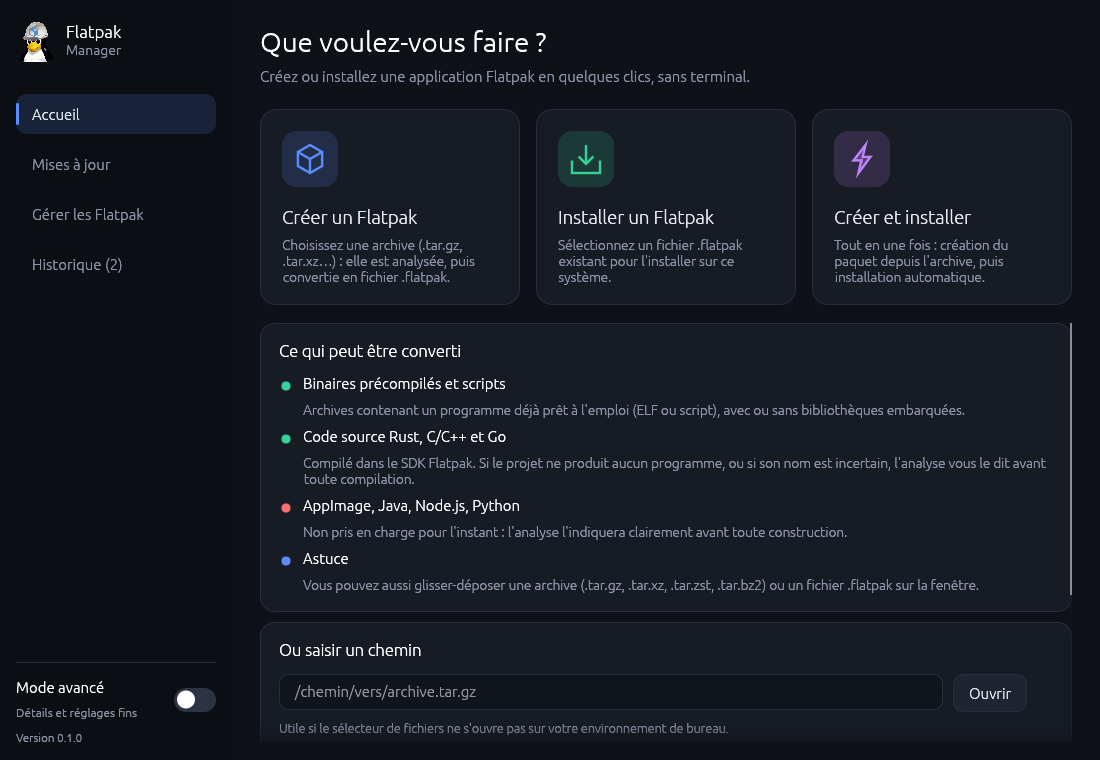
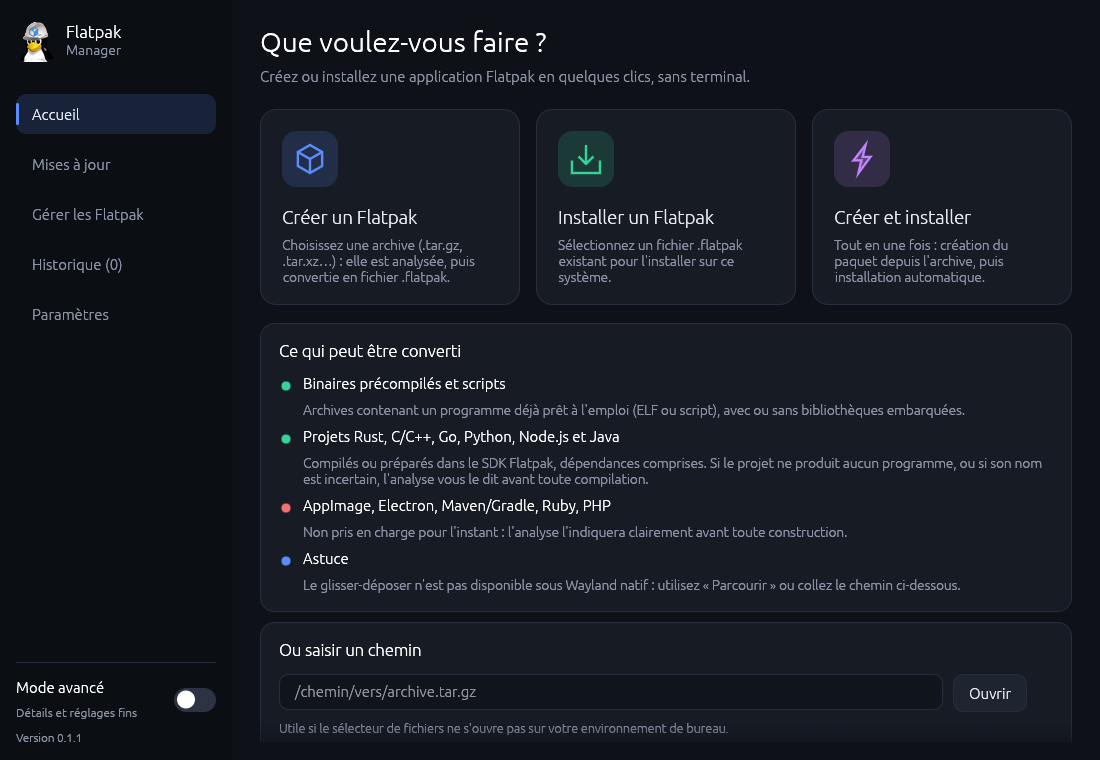
Nouvelle capture d'accueil et texte de l'accueil aligné sur les langages pris en charge
- docs/accueil.png : capture réelle de la version 0.1.1 (menu Paramètres, version à jour)
- accueil : Python, Node.js et Java ne sont plus annoncés comme non pris en charge
  (ils le sont depuis l'ajout de leurs chaînes d'outils) ; catalogue anglais mis à jour

Claude-Session: https://claude.ai/code/session_013BNQVNoYzAoUr8hwPDN7HE

Changed region(s): [[0.2782, 0.5447, 0.9582, 0.6961], [0.2782, 0.7566, 0.8964, 0.7868], [0.0309, 0.3934, 0.0927, 0.4237]]

diff --git a/src/ui/home.rs b/src/ui/home.rs
@@ -208,8 +208,8 @@ impl App {
         ScrollArea::vertical().auto_shrink([false, false]).show(ui, |ui| {
             card(ui, Some(tr!("Ce qui peut être converti")), |ui| {
                 dot_row(ui, SUCCESS, tr!("Binaires précompilés et scripts"), tr!("Archives contenant un programme déjà prêt à l'emploi (ELF ou script), avec ou sans bibliothèques embarquées."));
-                dot_row(ui, SUCCESS, tr!("Code source Rust, C/C++ et Go"), tr!("Compilé dans le SDK Flatpak. Si le projet ne produit aucun programme, ou si son nom est incertain, l'analyse vous le dit avant toute compilation."));
-                dot_row(ui, DANGER, tr!("AppImage, Java, Node.js, Python"), tr!("Non pris en charge pour l'instant : l'analyse l'indiquera clairement avant toute construction."));
+                dot_row(ui, SUCCESS, tr!("Projets Rust, C/C++, Go, Python, Node.js et Java"), tr!("Compilés ou préparés dans le SDK Flatpak, dépendances comprises. Si le projet ne produit aucun programme, ou si son nom est incertain, l'analyse vous le dit avant toute compilation."));
+                dot_row(ui, DANGER, tr!("AppImage, Electron, Maven/Gradle, Ruby, PHP"), tr!("Non pris en charge pour l'instant : l'analyse l'indiquera clairement avant toute construction."));
                 let dnd = tr!("Le glisser-déposer n'est pas disponible sous Wayland natif : utilisez « Parcourir » ou collez le chemin ci-dessous.");
                 dot_row(ui, ACCENT, tr!("Astuce"), dnd);
             });

diff --git a/src/i18n/en/ui_chrome.rs b/src/i18n/en/ui_chrome.rs
@@ -66,16 +66,16 @@ pub const ENTRIES: &[(&str, &str)] = &[
         "Archives containing a ready-to-use program (ELF or script), with or without bundled libraries.",
     ),
     (
-        "Code source Rust, C/C++ et Go",
-        "Rust, C/C++ and Go source code",
+        "Projets Rust, C/C++, Go, Python, Node.js et Java",
+        "Rust, C/C++, Go, Python, Node.js and Java projects",
     ),
     (
-        "Compilé dans le SDK Flatpak. Si le projet ne produit aucun programme, ou si son nom est incertain, l'analyse vous le dit avant toute compilation.",
-        "Built in the Flatpak SDK. If the project produces no program, or if its name is uncertain, the analysis tells you before any build.",
+        "Compilés ou préparés dans le SDK Flatpak, dépendances comprises. Si le projet ne produit aucun programme, ou si son nom est incertain, l'analyse vous le dit avant toute compilation.",
+        "Built or prepared in the Flatpak SDK, dependencies included. If the project produces no program, or if its name is uncertain, the analysis tells you before any build.",
     ),
     (
-        "AppImage, Java, Node.js, Python",
-        "AppImage, Java, Node.js, Python",
+        "AppImage, Electron, Maven/Gradle, Ruby, PHP",
+        "AppImage, Electron, Maven/Gradle, Ruby, PHP",
     ),
     (
         "Non pris en charge pour l'instant : l'analyse l'indiquera clairement avant toute construction.",
